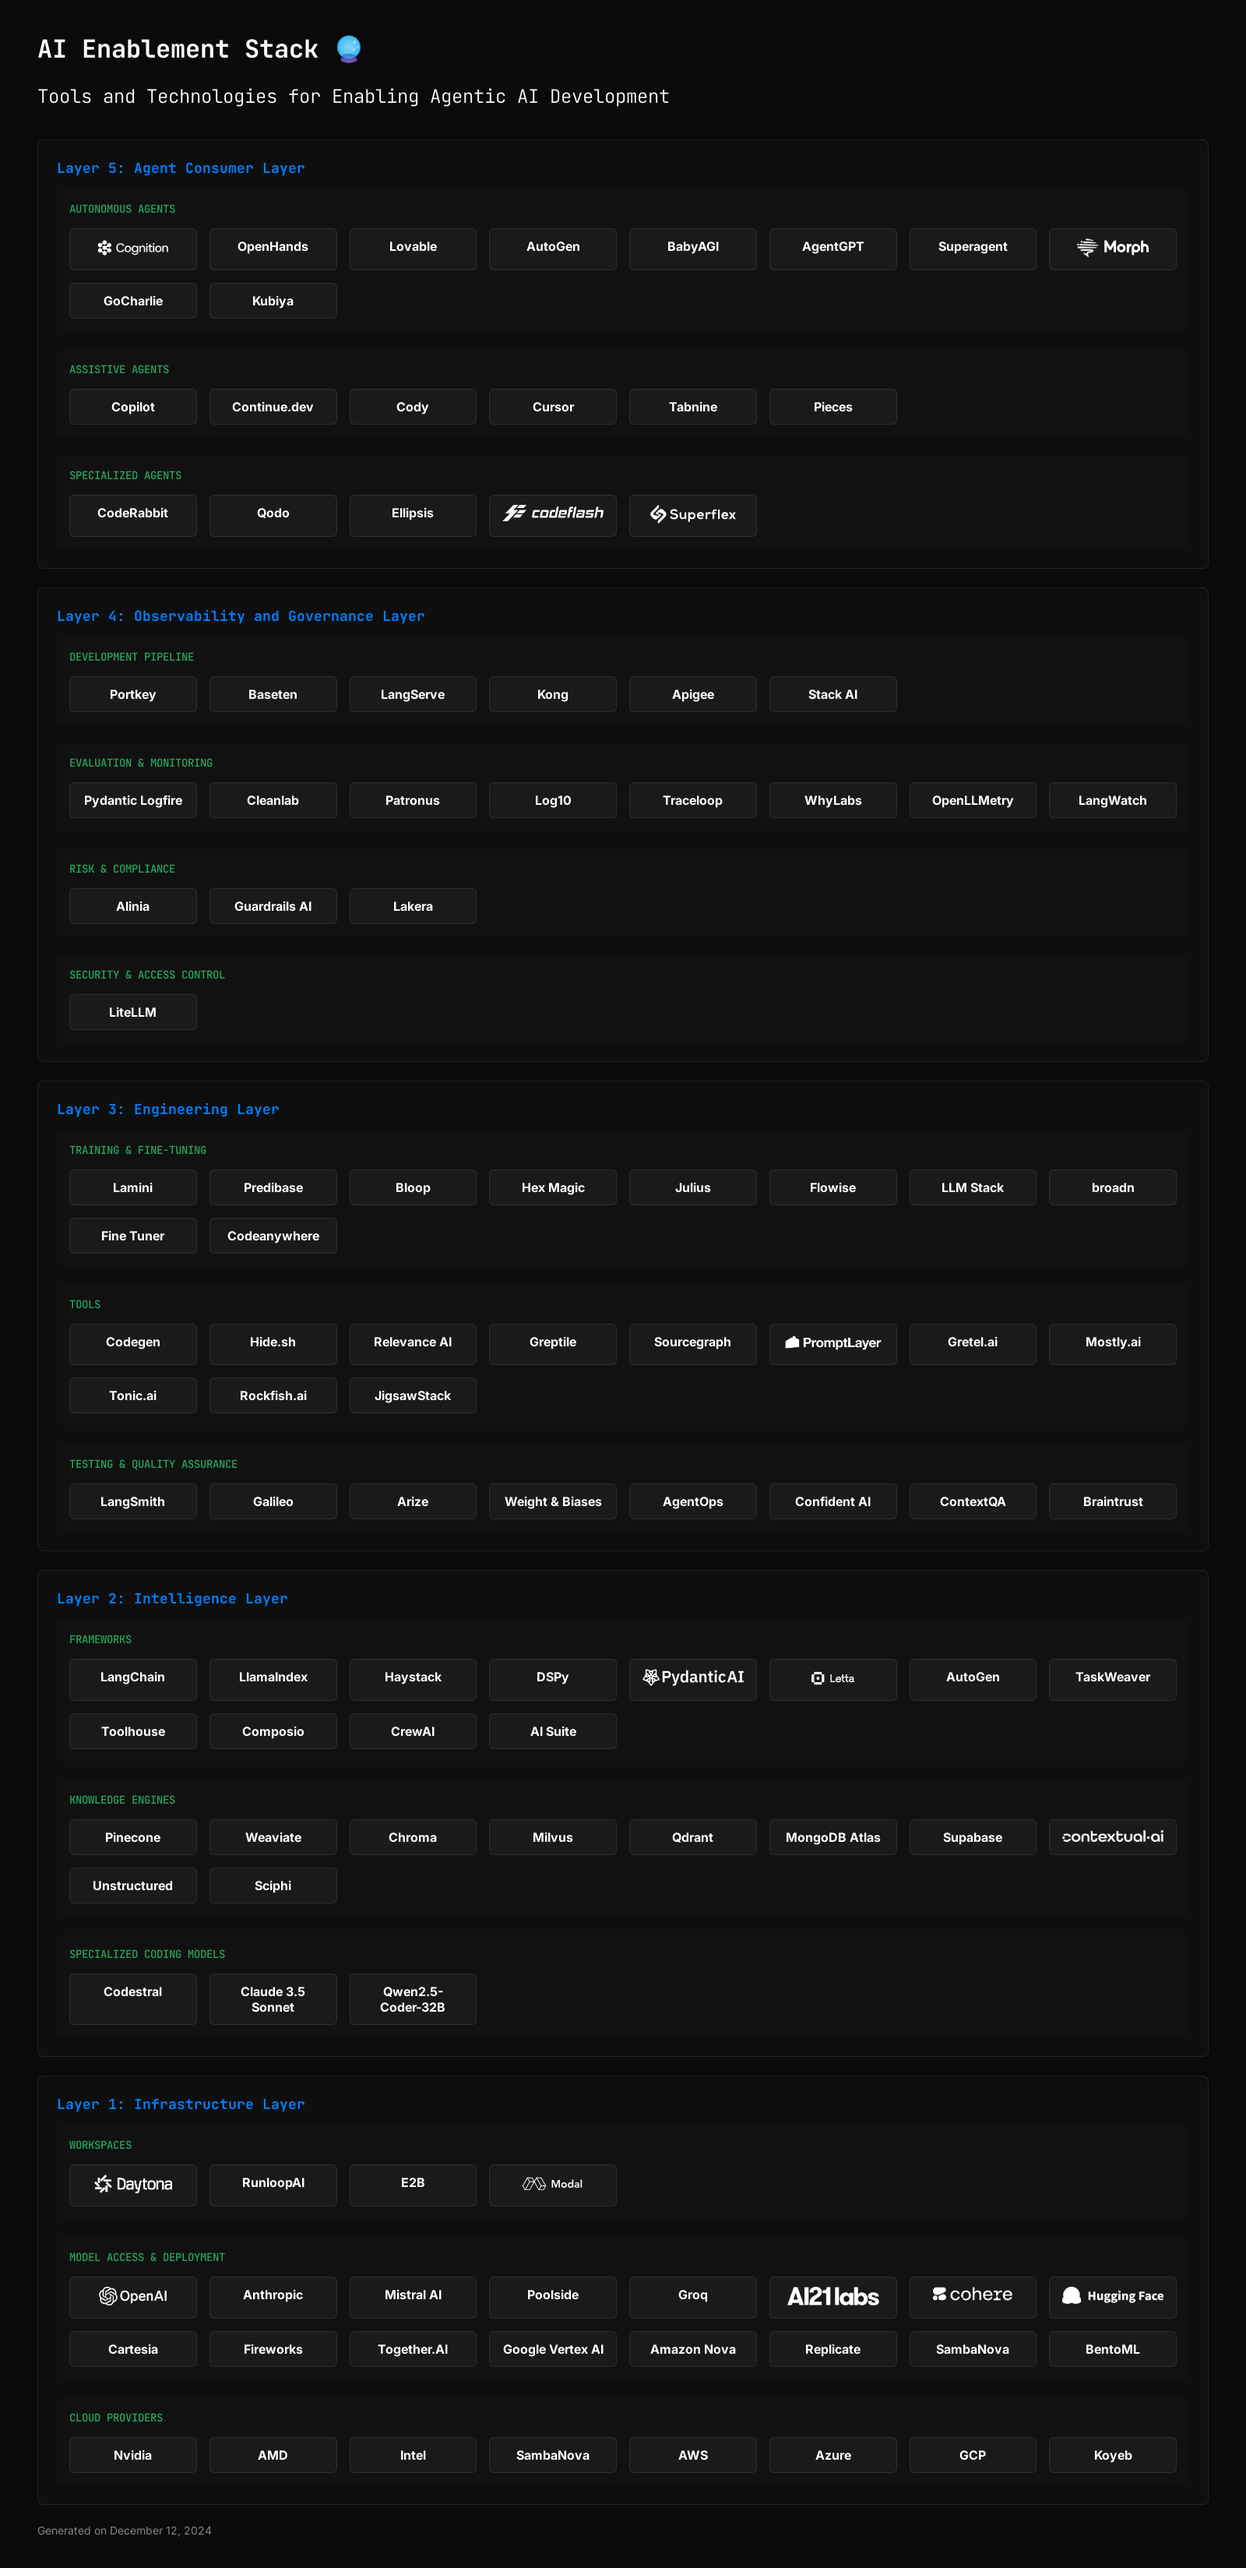
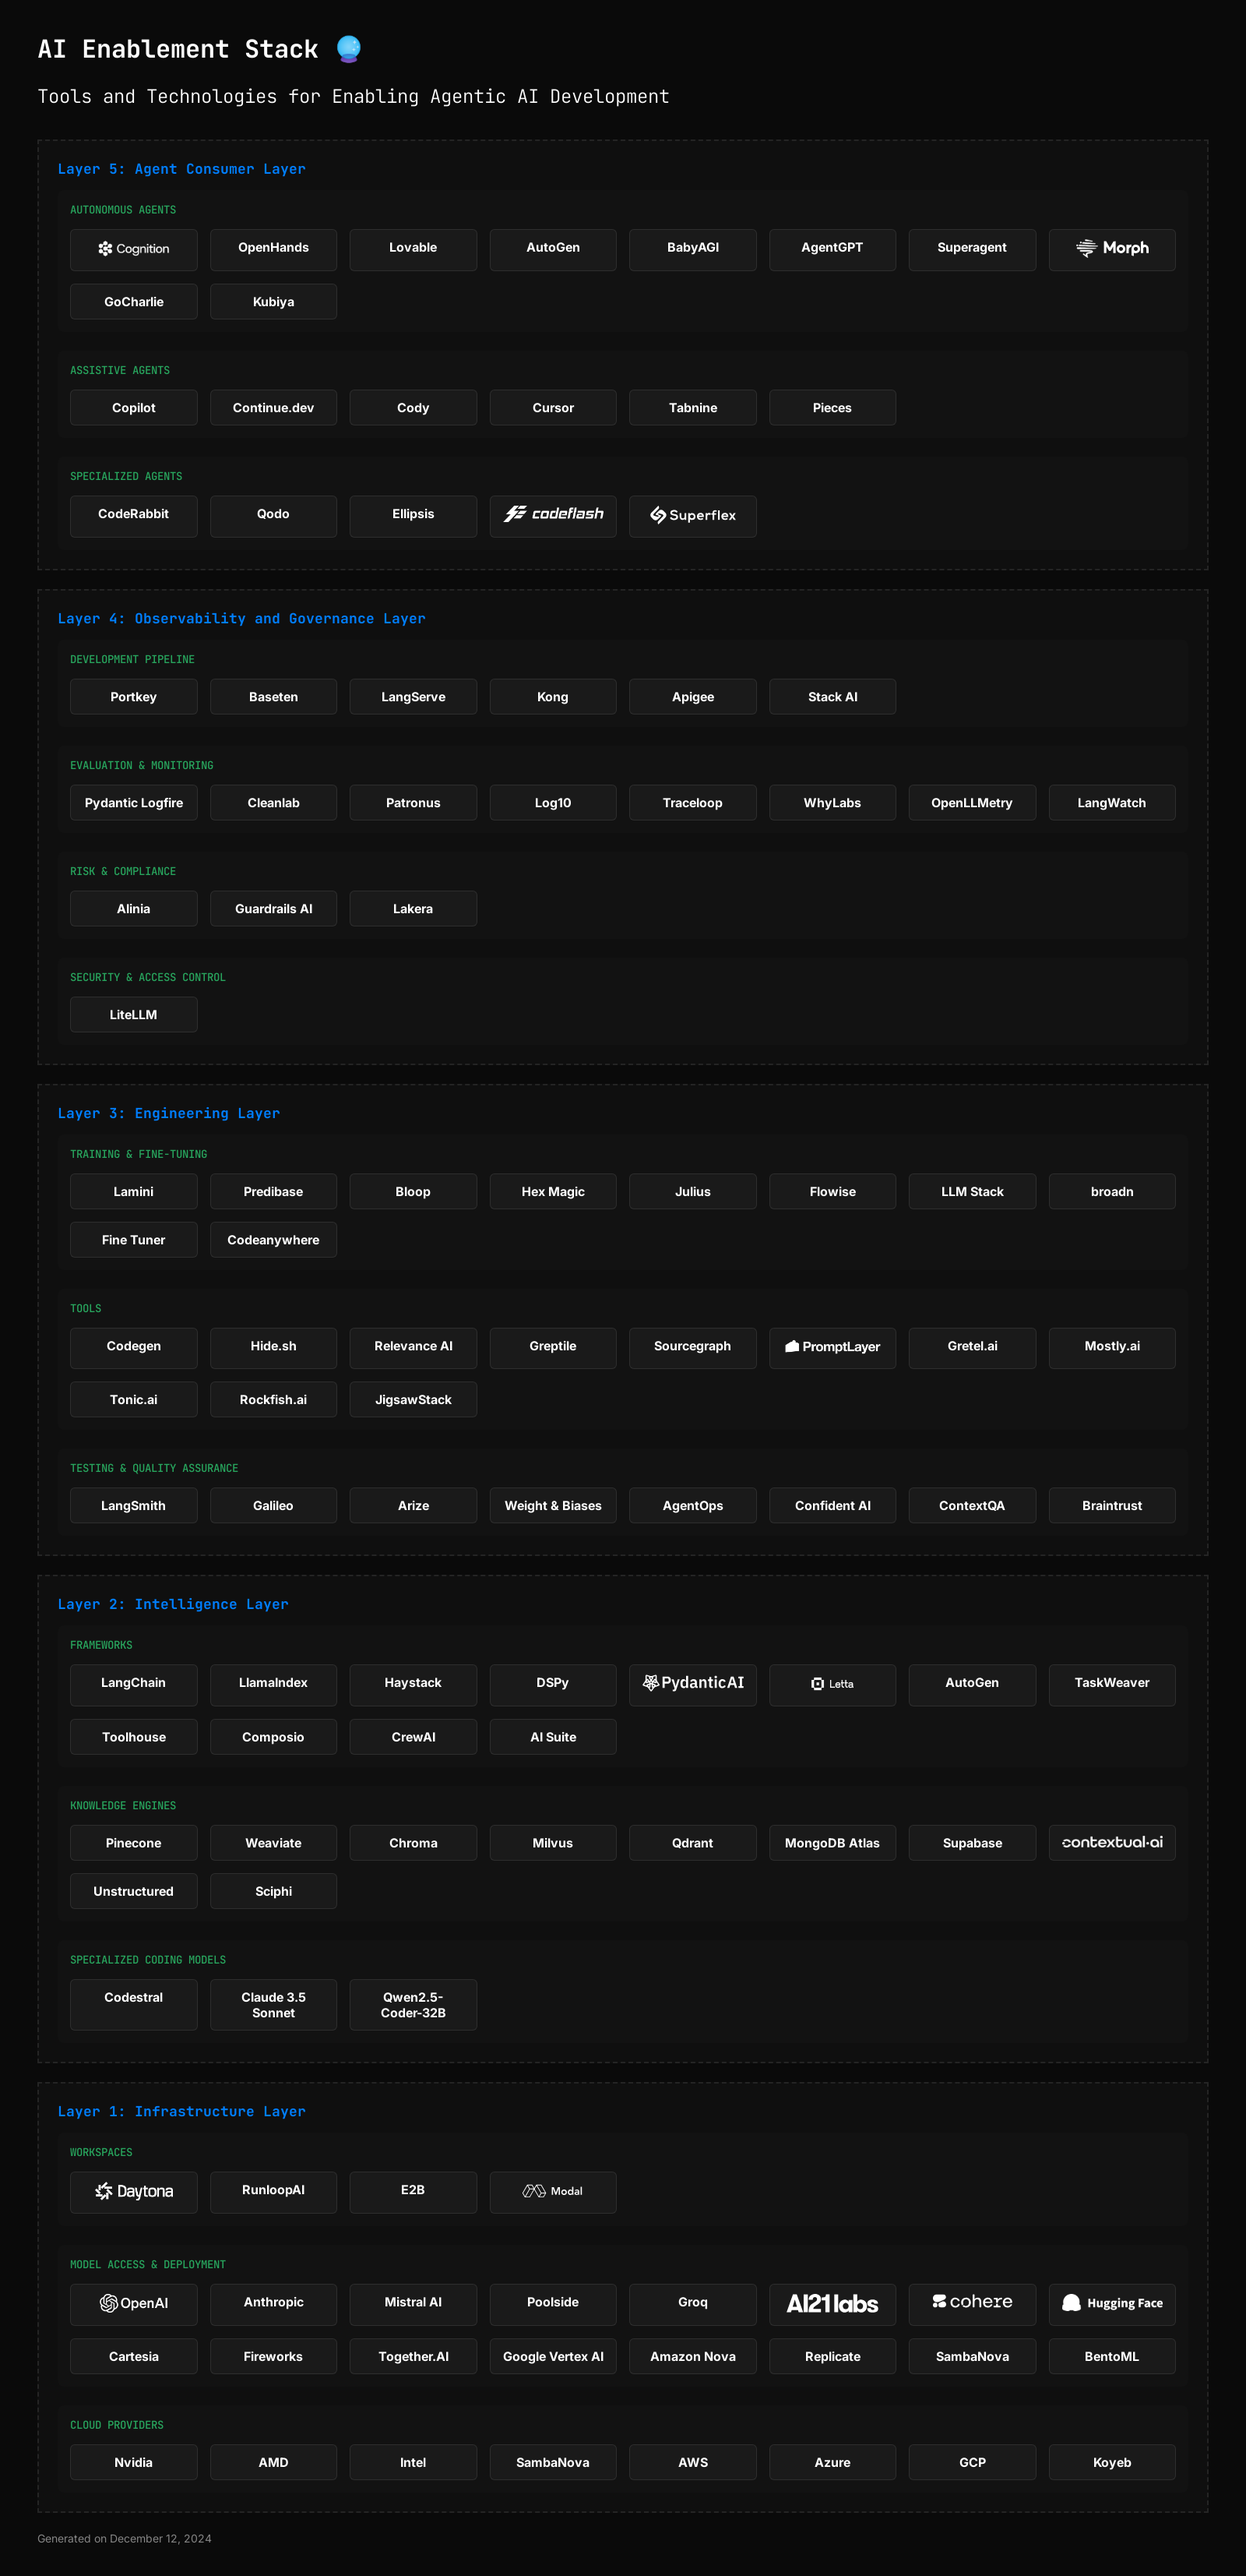
changed border

diff --git a/template.js b/template.js
@@ -58,9 +58,9 @@ const generateHTML = (data) => {
 
         .layer {
             margin-bottom: 24px;
-            border-radius: 8px;
+            border-radius: 0px;
             padding: 24px;
-            border: 1px solid var(--border-light);
+            border: 2px dashed var(--border-light, #252525);
             background: rgba(255, 255, 255, 0.02);
         }
 
